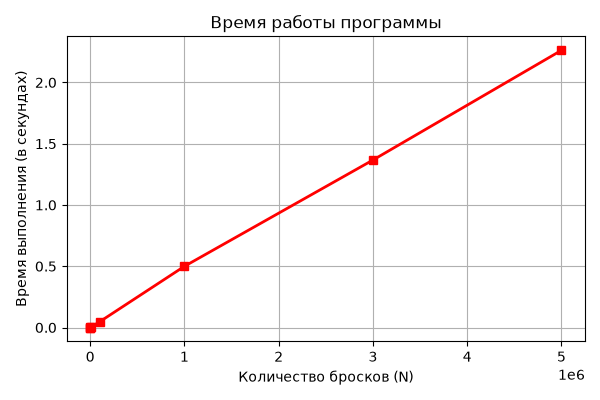
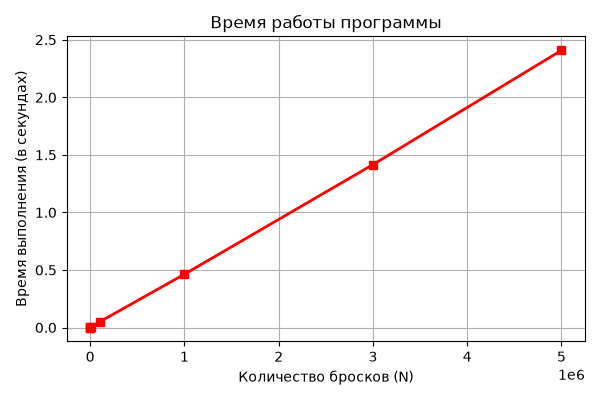
laba

diff --git a/aydar/experiment.py b/aydar/experiment.py
@@ -7,7 +7,7 @@ import plt
 def flip_coin(n):
     heads_count = 0
 
-    for _ in range(n):
+    for i in range(n):
         toss = random.randint(0, 1)
         if toss == 1:
             heads_count += 1